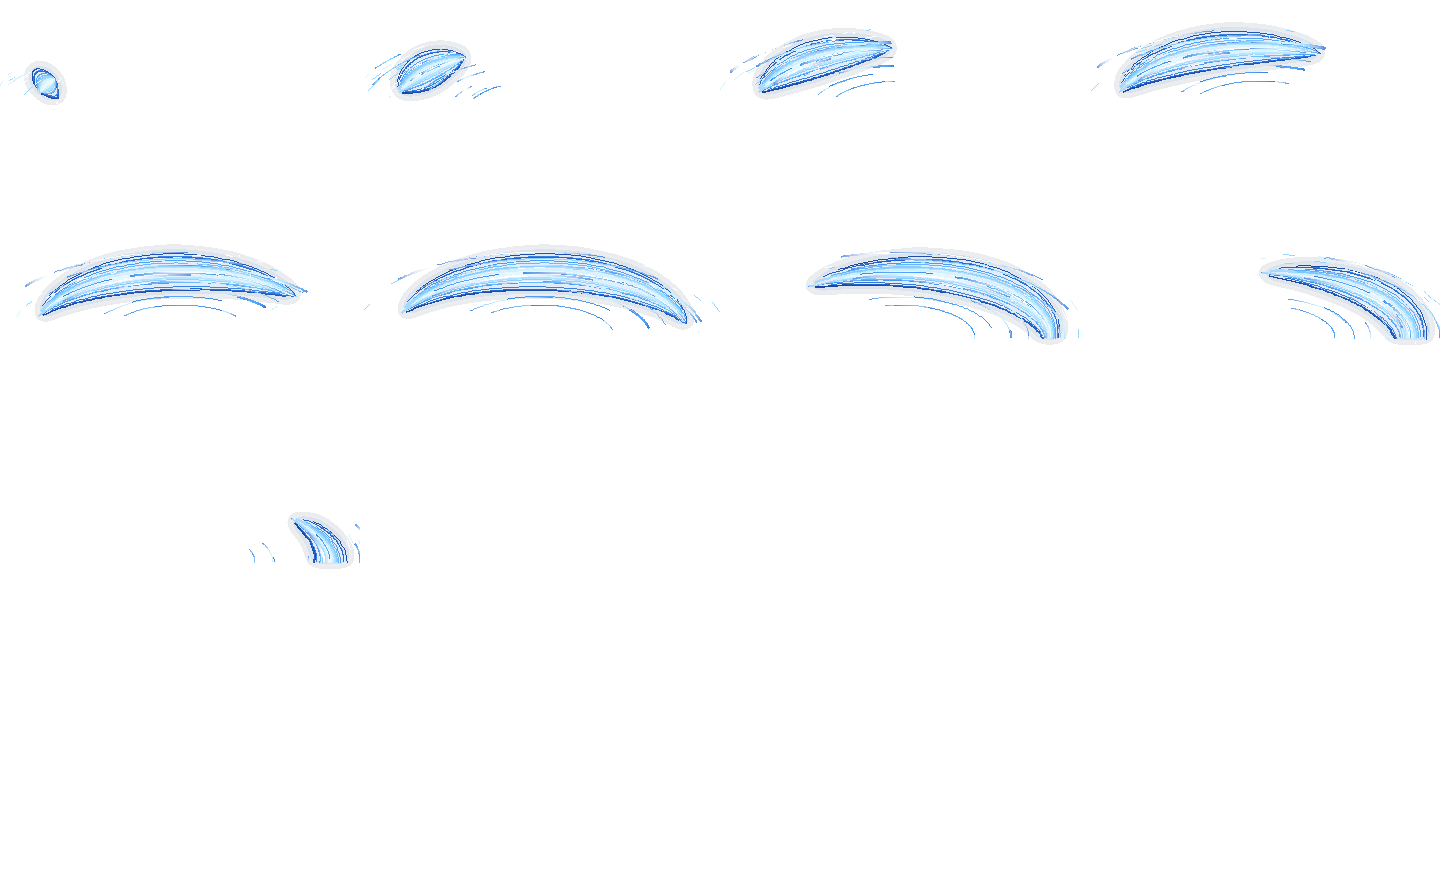
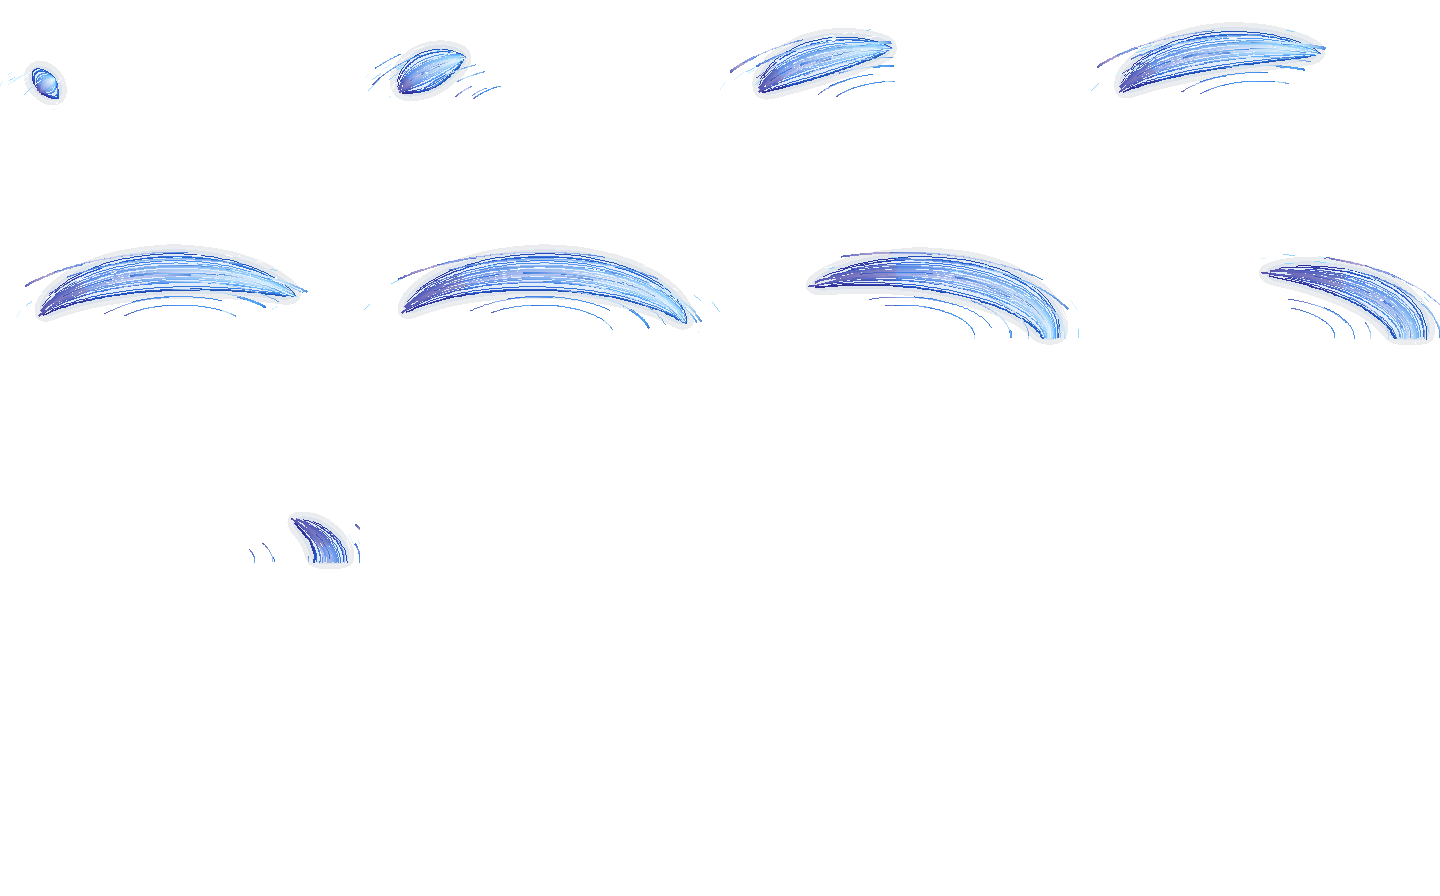
Elip C: giữ chùm sợi, thêm đuôi tối dần xanh đậm-tím (lấy từ video Spine)
Claude-Session: https://claude.ai/code/session_01MYwTvK6dULdzXHFPeBSgyd

diff --git a/cong_cu/claude/c_ellipse.py b/cong_cu/claude/c_ellipse.py
@@ -10,6 +10,10 @@ RX,RY=150,66
 M=18
 PAL=[(255,255,255),(214,244,255),(150,214,255),(86,168,250),(44,112,214),(28,72,160)]
 def ang(u):return math.radians(200+330*u)
+def tailmix(col,sv,k=0.75):
+    """từ video Spine (24/11): đuôi tối dần sang xanh đậm - tím, đầu giữ sáng"""
+    w=max(0.0,1-sv)**1.4*k;tc=(60,36,150) if sv<0.25 else (40,70,205)
+    return tuple(int(col[i]*(1-w)+tc[i]*w) for i in range(3))
 def prof(s):                       # độ rộng chùm theo vị trí s (0 đuôi → 1 đầu): dày về phía cuối, mỏng nhọn hai đầu
     return (max(0.0,math.sin(math.pi*min(1,s)**0.7))**0.8)*(0.35+0.65*s)
 def colour(k):                     # k 0=lõi .. 1=mép
@@ -64,7 +68,7 @@ def sheet(name,front):
                         if pass_==0:
                             gd.line([(x,y),(x2,y2)],fill=(70,150,255,255),width=7)
                         else:
-                            col=colour(min(1,k*0.9+0.1*(1-sv)))
+                            col=tailmix(colour(min(1,k*0.9+0.1*(1-sv))),sv)
                             fade=min(1,sv*5)*(1 if sv>0.0 else 0)
                             d.line([(x,y),(x2,y2)],fill=col+(255,),width=s['w'] if k>0.35 else s['w']+1)
             gl=gl.filter(ImageFilter.GaussianBlur(6))
@@ -85,7 +89,7 @@ def sheet(name,front):
                     s_=i/n;al=max(0.0,math.sin(math.pi*s_))**0.6
                     if al<0.25:continue
                     xa=CX+RX*sc_*math.cos(ang(ua));ya=CY+RY*sc_*math.sin(ang(ua));xb=CX+RX*sc_*math.cos(ang(ub));yb=CY+RY*sc_*math.sin(ang(ub))
-                    col=tuple(int(tone[j]*al+ (44,112,214)[j]*(1-al)) for j in range(3))
+                    col=tailmix(tuple(int(tone[j]*al+ (44,112,214)[j]*(1-al)) for j in range(3)),(u0+(u1-u0)*(i/n)-tail)/max(1e-6,head-tail),0.6)
                     d.line([(xa,ya),(xb,yb)],fill=col+(255,),width=ww)
             # vòng nhỏ trong: bắt đầu trễ 0,12, quét nhanh, tan trước vòng lớn
             h2=min(1,max(0,(p-0.12)*1.7));t2=h2*min(1,max(0,(p-0.5)/0.38))**1.1
